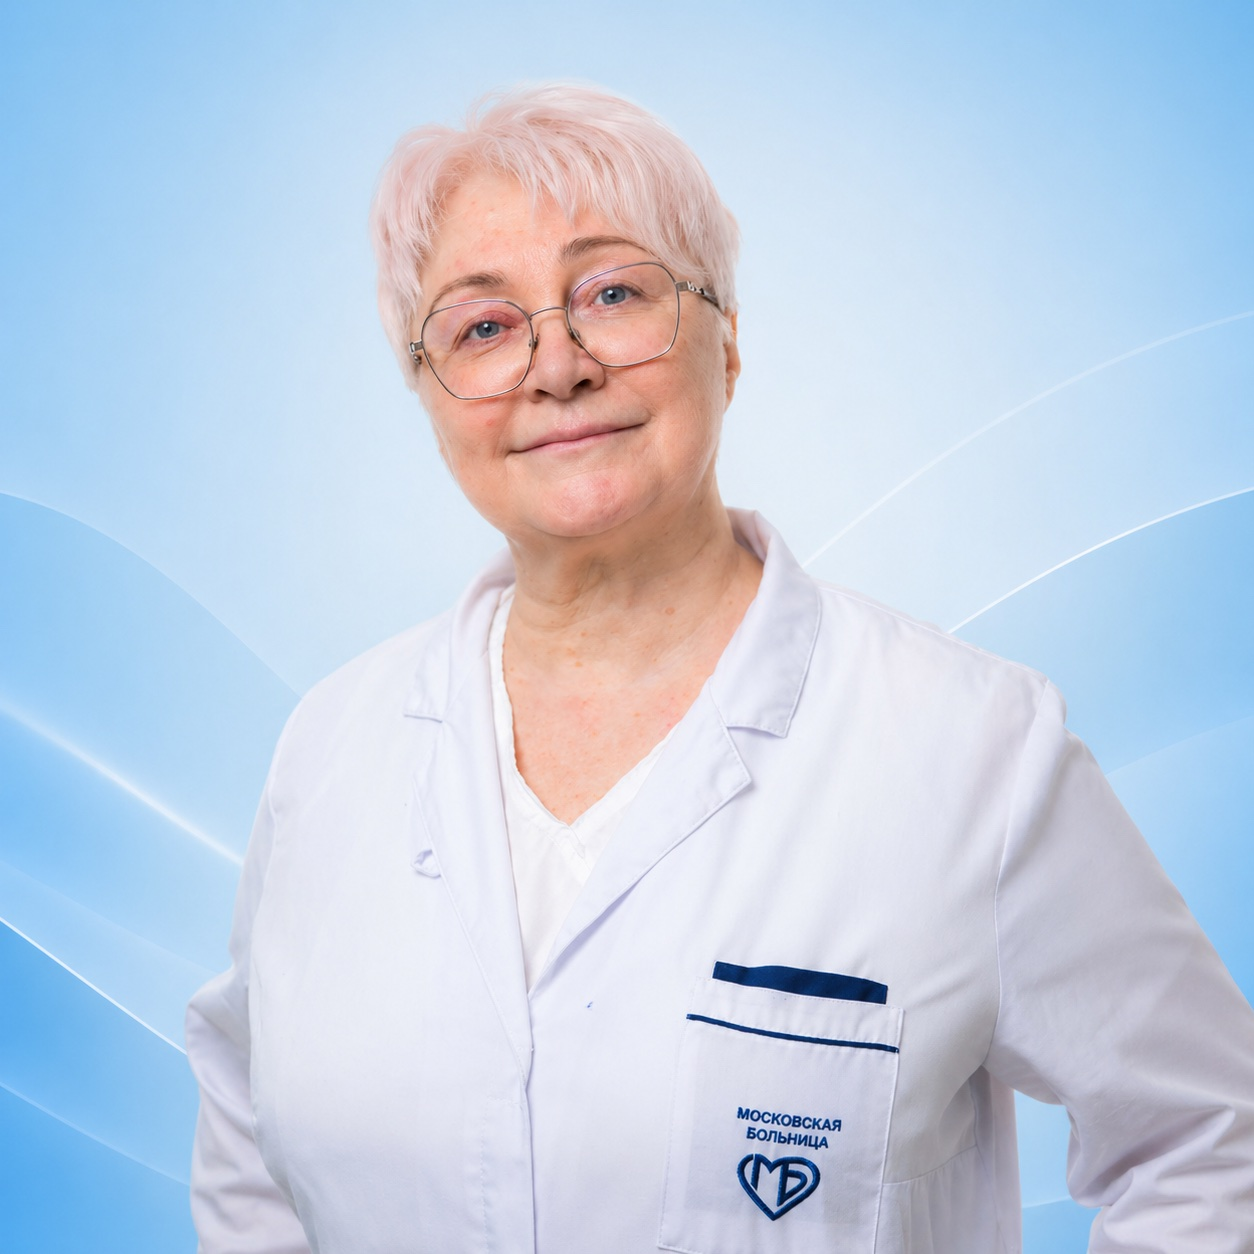
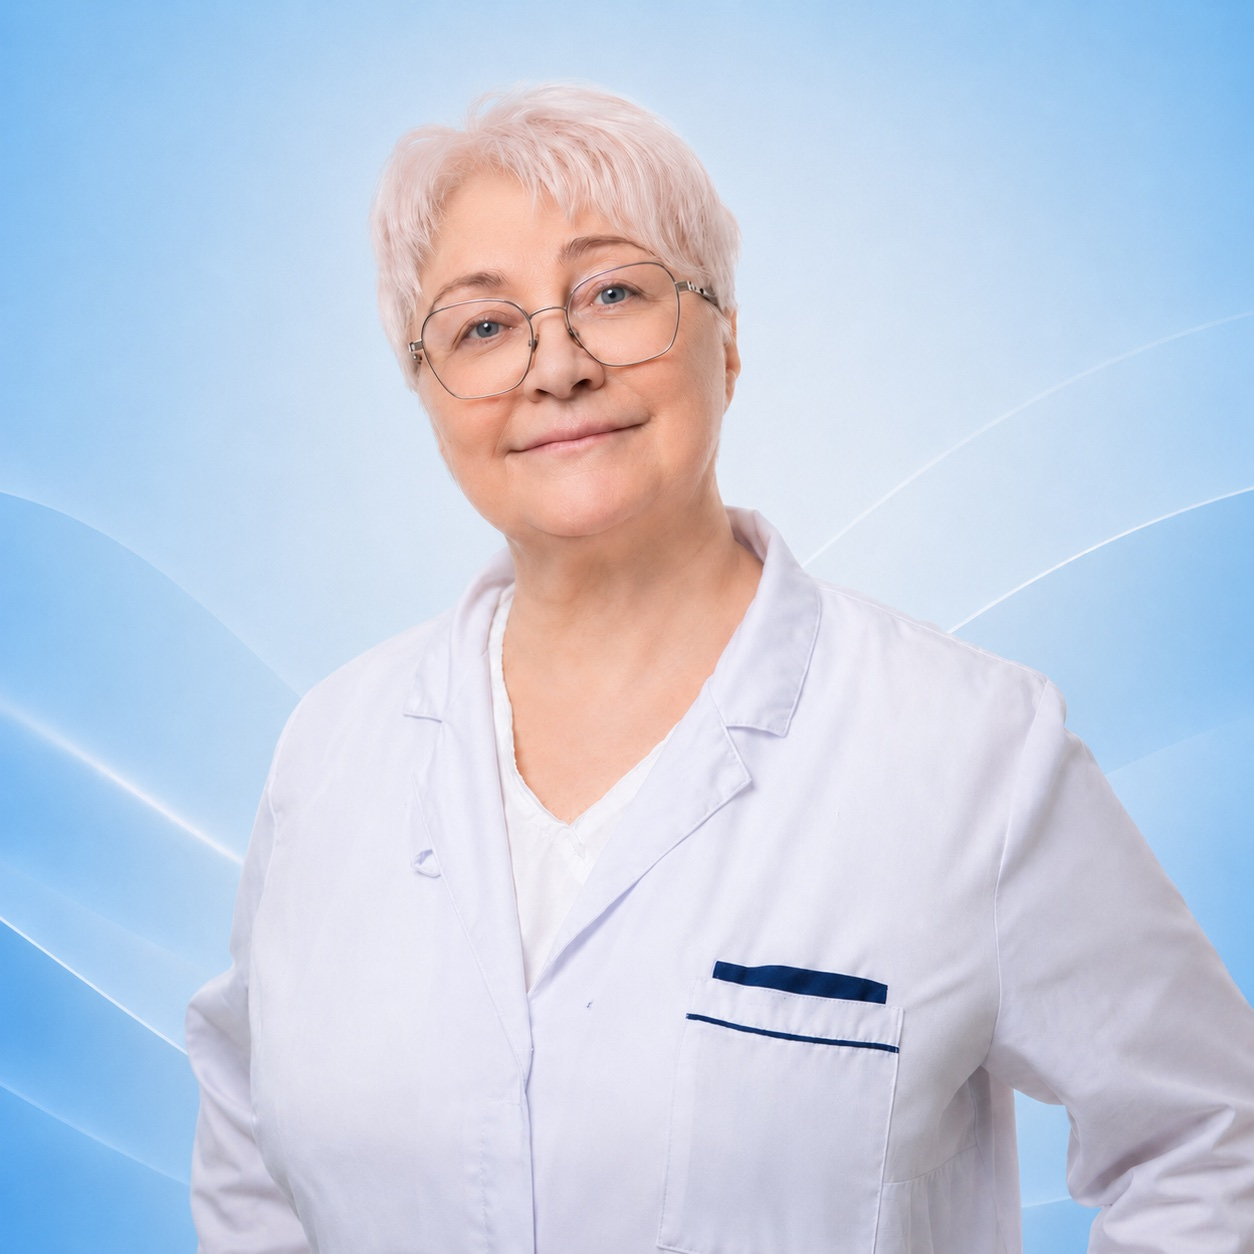
FEATURE: Update URLs to point to the main site for improved accessibility and SEO

diff --git a/config.php b/config.php
@@ -2,7 +2,7 @@
 // Конфигурация и общие данные клиники
 
 define('CLINIC_NAME', 'БИОИНМЕД');
-define('CLINIC_SITE_URL', 'https://next.bioinmed.ru');
+define('CLINIC_SITE_URL', 'https://bioinmed.ru');
 define('CLINIC_ICON_PATH', '/public/images/brand/bioinmed-icon.png');
 define('CLINIC_PHONE', '+7 (495) 796-03-36');
 define('CLINIC_ADDRESS', 'Москва, Оболенский пер., 9А');
